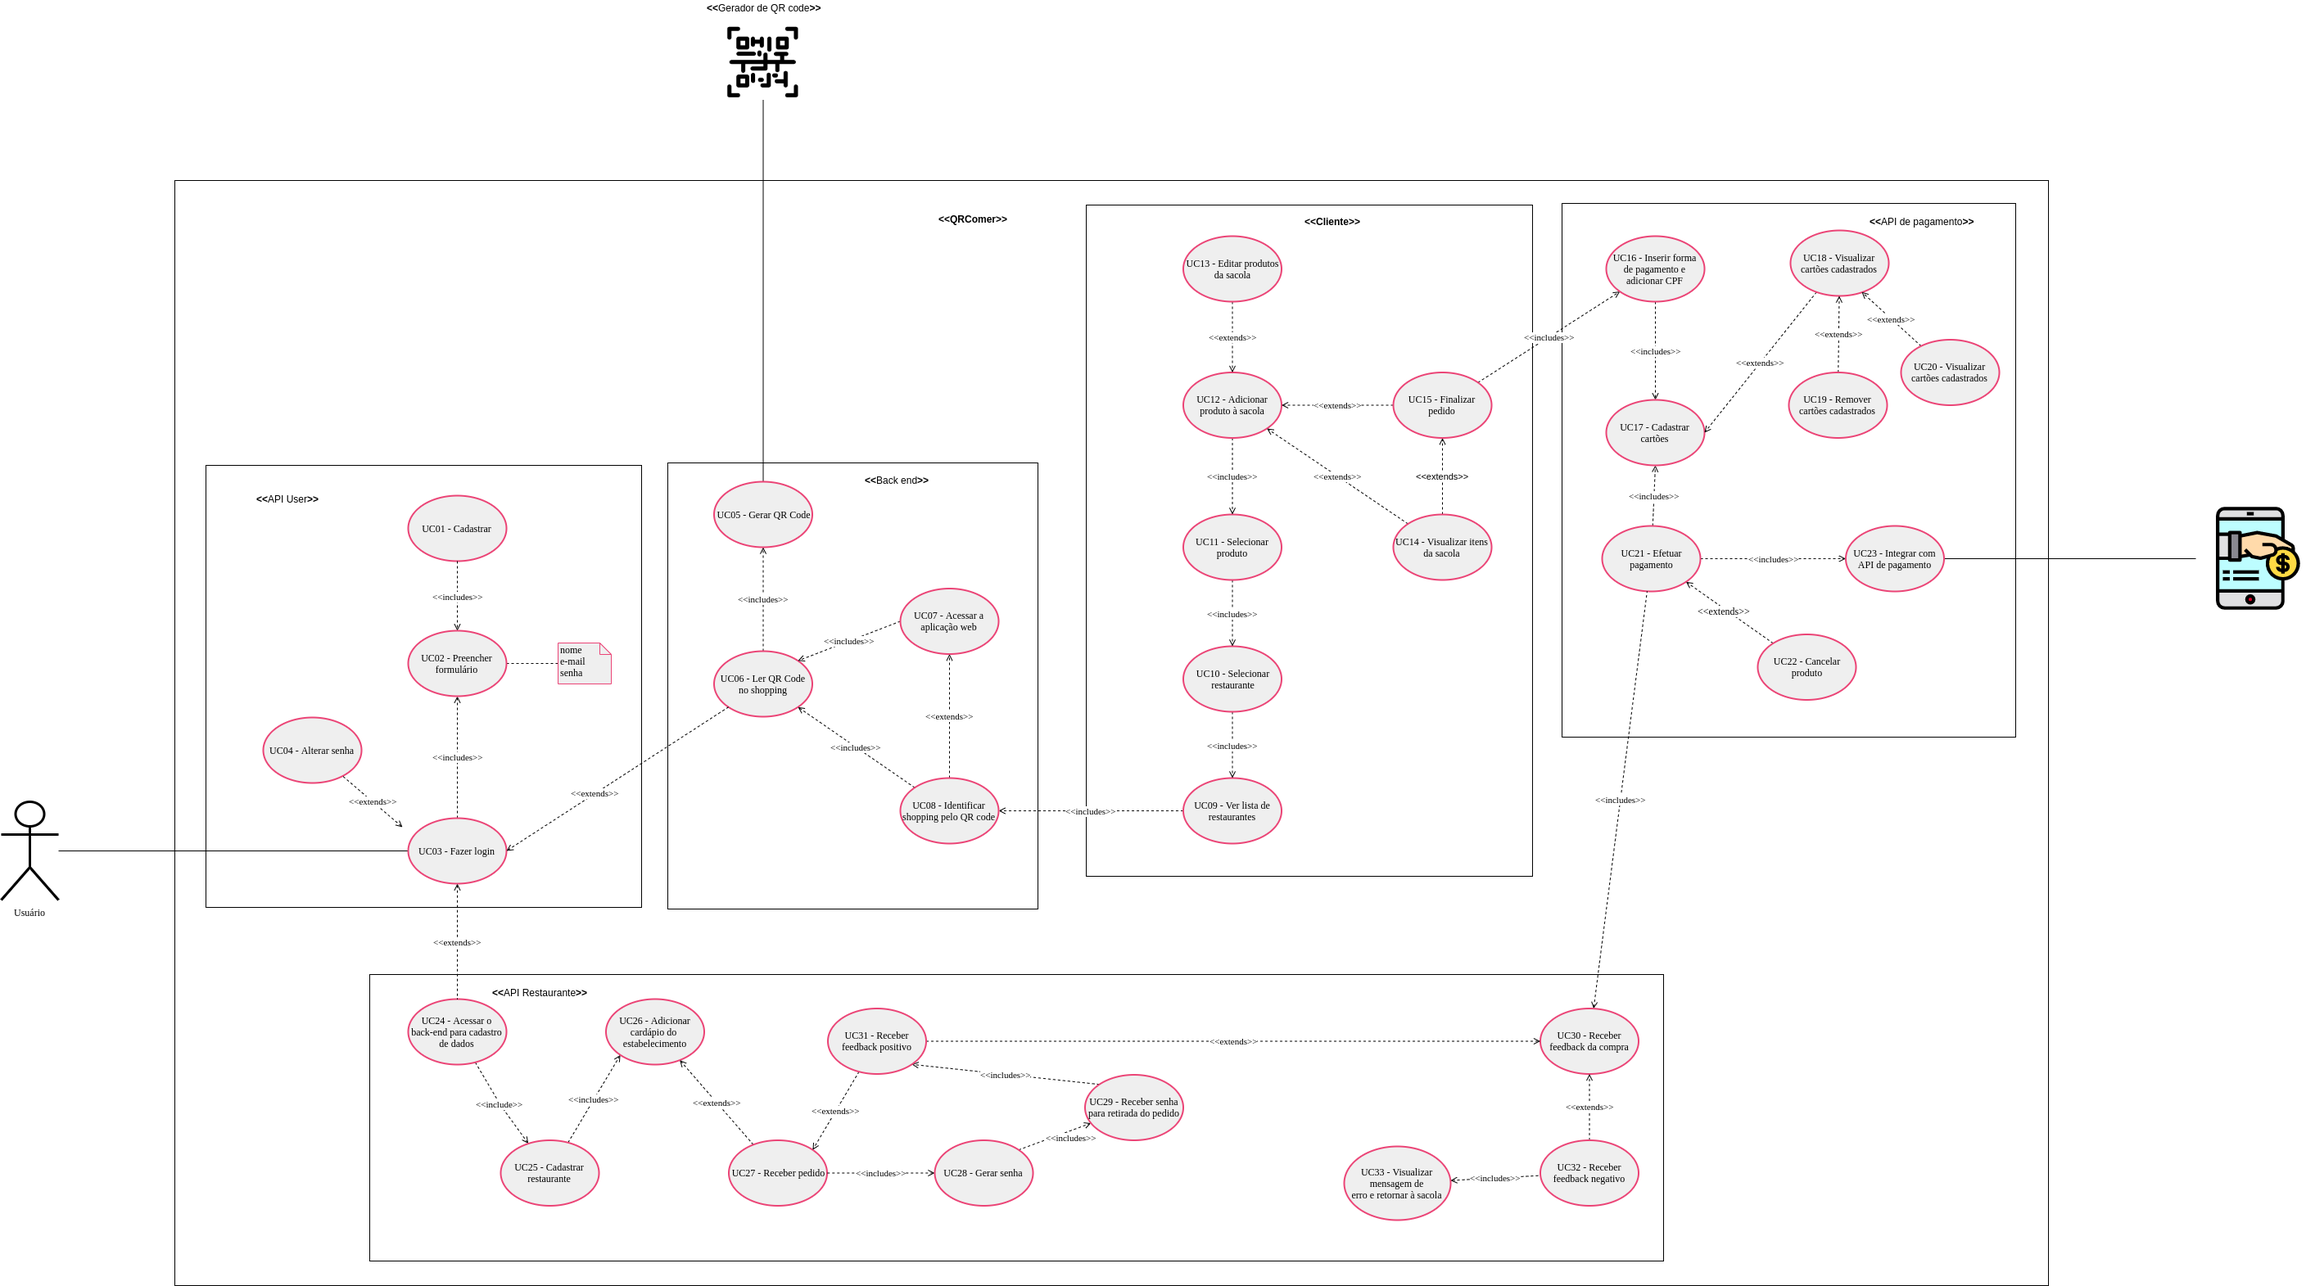
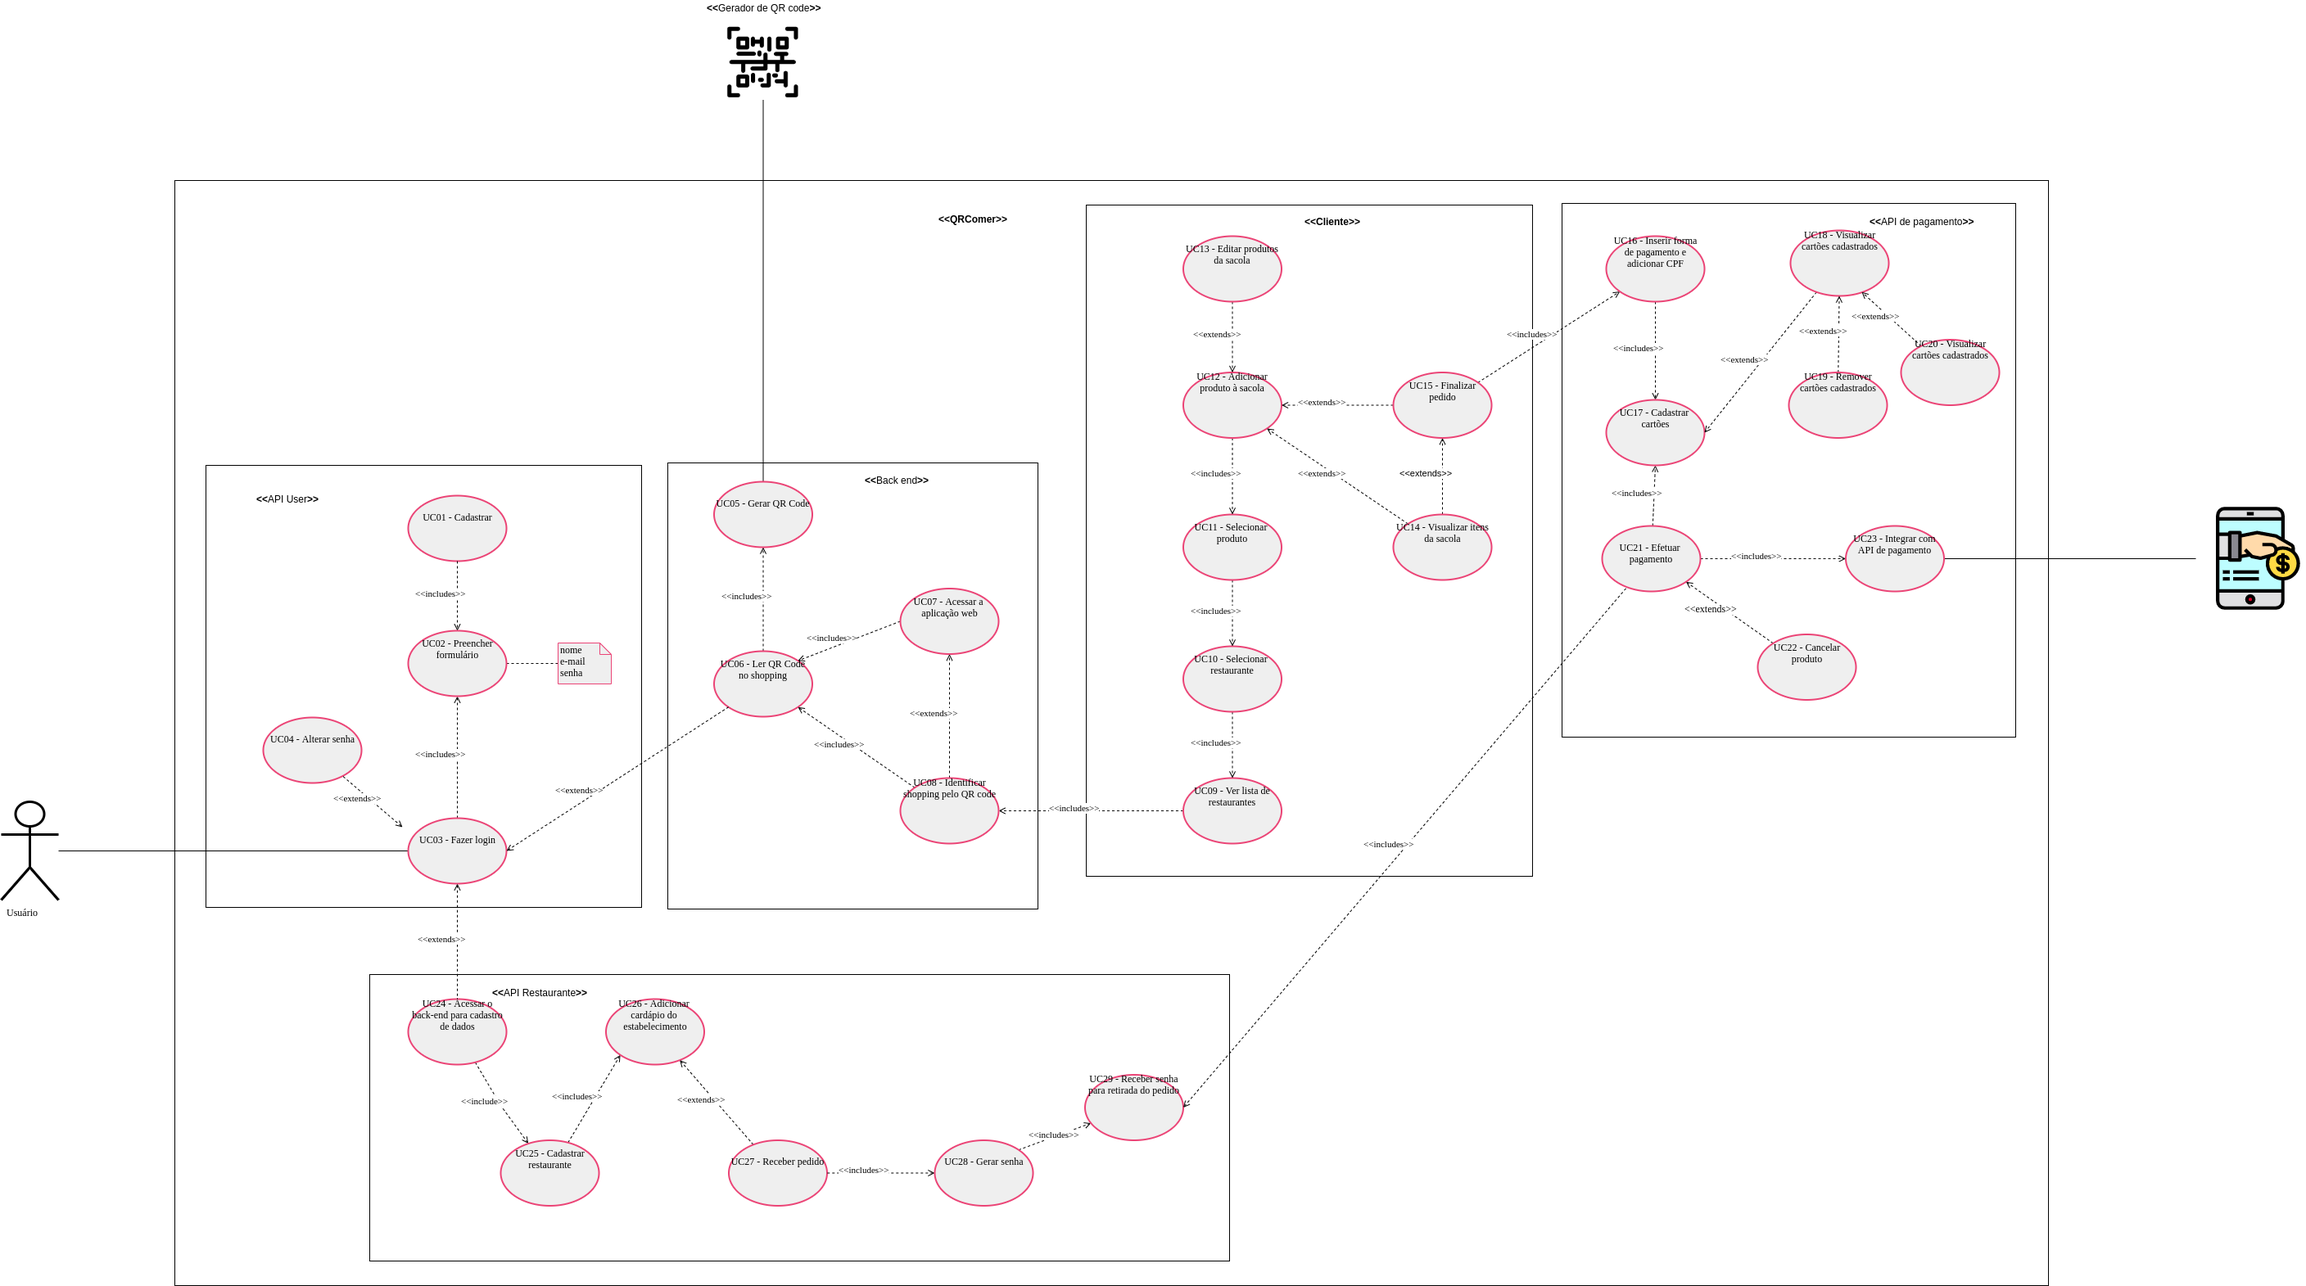
adding more processes to arch doc

diff --git a/docs/seminario5/arquitetura.md b/docs/seminario5/arquitetura.md
@@ -1,9 +1,10 @@
 ## Histórico de Revisão
 
-| Data       | Versão | Descrição                          | Autor                                              |
-| ---------- | ------ | ---------------------------------- | -------------------------------------------------- |
+| Data       | Versão | Descrição                                                       | Autor                                              |
+| ---------- | ------ | --------------------------------------------------------------- | -------------------------------------------------- |
 | 13/11/2019 | 0.1    | Estrutura do Documento, Introdução e Representação Arquitetural | [Pedro Féo](https://github.com/phe0)               |
-| 14/11/2019 | 0.2    | Casos de uso                       | [Matheus Blanco](https://github.com/MatheusBlanco) |
+| 14/11/2019 | 0.2    | Casos de uso, visão de processo e visão de tamanho e desempenho | [Matheus Blanco](https://github.com/MatheusBlanco) |
+| 15/11/2019 | 0.3s   | Refatorando diagramas e adicionando mais visões de processo     | [Matheus Blanco](https://github.com/MatheusBlanco) |
 
 ## 1 Introdução
 
@@ -101,41 +102,37 @@ Provindo da documentação referente ao [seminário 3](/../Wiki/docs/seminario3/
 
 #### 4.1.2 Descrição dos Casos de Uso
 
-| Casos de Uso                                           | Descrição dos Casos de Uso                                                                          |
-| ------------------------------------------------------ | --------------------------------------------------------------------------------------------------- |
-| UC01 - Cadastrar                                       | O usuário realiza o cadastro na aplicação                                                           |
-| UC02 - Preencher Formulário                            | O usuário insere as informações necessárias                                                         |
-| UC03 - Fazer Login                                     | O usuário acessa a aplicação                                                                        |
-| UC04 - Alterar senha                                   | O usuário requisita uma alteração de senha                                                          |
-| UC05 - Gerar QR-Code                                   | O gerador de QR-Code cria um link de acesso para o shopping                                         |
-| UC06 - Ler QR Code no shopping                         | O usuário acessa o shopping a partir do link contido no QR-Code                                     |
-| UC07 - Acessar a aplicação web                         | O gerador de QR-Code acessa a aplicação a partir da identificação do shopping                       |
-| UC08 - Identificar shopping pelo QR-Code               | O gerador de QR-Code gera um código diferente para cada shopping, tornando o link seu identificador |
-| UC09 - Ver lista de restaurantes                       | O usuário vê, na página do shopping, todos os restaurantes existentes no mesmo                      |
-| UC10 - Selecionar restaurante                          | O usuário escolhe e abre um restaurante a partir da lista                                           |
-| UC11 - Selecionar produto                              | O usuário escolhe e seleciona o produto na página de restaurante                                    |
-| UC12 - Adicionar produto à sacola                      | O usuário confirma a seleção do produto e o mesmo é adicionado à sacola de pedidos                  |
-| UC13 - Editar produtos da sacola                       | O usuário regula a quantidade de produtos na sacola                                                 |
-| UC14 - Visualizar itens da sacola                      | O usuário pode ver, na sacola, todos os itens escolhidos                                            |
-| UC15 - Finalizar pedido                                | O usuário confirma os itens na sacola e finaliza o pedido                                           |
-| UC16 - Inserir forma de pagamento e adicionar CPF      | O usuário escolhe o cartão que deseja usar e adiciona o CPF para nota fiscal, na sacola             |
-| UC17 - Cadastrar cartões                               | O usuário cadastra os seus cartões de crédito na conta da aplicação                                 |
-| UC18 - Visualizar cartões cadastrados                  | O usuário pode visualizar todos os cartões cadastrados em sua conta                                 |
-| UC19 - Remover cartões cadastrados                     | O usuário pode remover todos os cartões cadastrados em sua conta                                    |
-| UC20 - Visualizar cartões cadastrados                  | O usuário pode visualizar todos os cartões cadastrados em sua conta                                 |
-| UC21 - Efetuar pagamento                               | O usuário confirma o pedido e o serviço de pagamento debita o valor de seu cartão escolhido         |
-| UC22 - Cancelar produto                                | O usuário deleta um ou todos os itens da sacola                                                     |
-| UC23 - Integrar com API de pagamento                   | O serviço de pagamento simula uma API real de pagamento                                             |
-| UC24 - Acessar o back-end para cadastro de dados       | O restaurante acessa o serviço de cadastro de informações do back-end                               |
-| UC25 - Cadastrar restaurante                           | O restaurante adiciona as informações jurídicas necessárias para cadastrar o restaurante            |
-| UC26 - Adicionar cardápio do estabelecimento           | O restaurante adiciona os itens ao seu cardápio, com valores, descrição e imagens                   |
-| UC27 - Receber pedido                                  | O restaurante recebe o pedido criado pelo usuário, para preparação do alimento                      |
-| UC28 - Gerar senha                                     | O usuário e o restaurante recebem uma senha gerada pela aplicação                                   |
-| UC29 - Receber senha para retirada do pedido           | O usuário e o restaurante recebem uma senha gerada pela aplicação                                   |
-| UC30 - Receber feedback da compra                      | O usuário deixa um feedback do produto para o restaurante                                           |
-| UC31 - Receber feedback positivo                       | O restaurante recebe um feedback positivo                                                           |
-| UC32 - Receber feedback negativo                       | O restaurante recebe um feedback negativo                                                           |
-| UC33 - Visualizar mensagem de erro e retornar à sacola | (?)                                                                                                 |
+| Casos de Uso                                      | Descrição dos Casos de Uso                                                                          |
+| ------------------------------------------------- | --------------------------------------------------------------------------------------------------- |
+| UC01 - Cadastrar                                  | O usuário realiza o cadastro na aplicação                                                           |
+| UC02 - Preencher Formulário                       | O usuário insere as informações necessárias                                                         |
+| UC03 - Fazer Login                                | O usuário acessa a aplicação                                                                        |
+| UC04 - Alterar senha                              | O usuário requisita uma alteração de senha                                                          |
+| UC05 - Gerar QR-Code                              | O gerador de QR-Code cria um link de acesso para o shopping                                         |
+| UC06 - Ler QR Code no shopping                    | O usuário acessa o shopping a partir do link contido no QR-Code                                     |
+| UC07 - Acessar a aplicação web                    | O gerador de QR-Code acessa a aplicação a partir da identificação do shopping                       |
+| UC08 - Identificar shopping pelo QR-Code          | O gerador de QR-Code gera um código diferente para cada shopping, tornando o link seu identificador |
+| UC09 - Ver lista de restaurantes                  | O usuário vê, na página do shopping, todos os restaurantes existentes no mesmo                      |
+| UC10 - Selecionar restaurante                     | O usuário escolhe e abre um restaurante a partir da lista                                           |
+| UC11 - Selecionar produto                         | O usuário escolhe e seleciona o produto na página de restaurante                                    |
+| UC12 - Adicionar produto à sacola                 | O usuário confirma a seleção do produto e o mesmo é adicionado à sacola de pedidos                  |
+| UC13 - Editar produtos da sacola                  | O usuário regula a quantidade de produtos na sacola                                                 |
+| UC14 - Visualizar itens da sacola                 | O usuário pode ver, na sacola, todos os itens escolhidos                                            |
+| UC15 - Finalizar pedido                           | O usuário confirma os itens na sacola e finaliza o pedido                                           |
+| UC16 - Inserir forma de pagamento e adicionar CPF | O usuário escolhe o cartão que deseja usar e adiciona o CPF para nota fiscal, na sacola             |
+| UC17 - Cadastrar cartões                          | O usuário cadastra os seus cartões de crédito na conta da aplicação                                 |
+| UC18 - Visualizar cartões cadastrados             | O usuário pode visualizar todos os cartões cadastrados em sua conta                                 |
+| UC19 - Remover cartões cadastrados                | O usuário pode remover todos os cartões cadastrados em sua conta                                    |
+| UC20 - Visualizar cartões cadastrados             | O usuário pode visualizar todos os cartões cadastrados em sua conta                                 |
+| UC21 - Efetuar pagamento                          | O usuário confirma o pedido e o serviço de pagamento debita o valor de seu cartão escolhido         |
+| UC22 - Cancelar produto                           | O usuário deleta um ou todos os itens da sacola                                                     |
+| UC23 - Integrar com API de pagamento              | O serviço de pagamento simula uma API real de pagamento                                             |
+| UC24 - Acessar o back-end para cadastro de dados  | O restaurante acessa o serviço de cadastro de informações do back-end                               |
+| UC25 - Cadastrar restaurante                      | O restaurante adiciona as informações jurídicas necessárias para cadastrar o restaurante            |
+| UC26 - Adicionar cardápio do estabelecimento      | O restaurante adiciona os itens ao seu cardápio, com valores, descrição e imagens                   |
+| UC27 - Receber pedido                             | O restaurante recebe o pedido criado pelo usuário, para preparação do alimento                      |
+| UC28 - Gerar senha                                | O usuário e o restaurante recebem uma senha gerada pela aplicação                                   |
+| UC29 - Receber senha para retirada do pedido      | O usuário e o restaurante recebem uma senha gerada pela aplicação                                   |
 
 ## 5 Visão Lógica
 
@@ -238,9 +235,43 @@ tentar explicar a estrutura do projeto de uma forma lógica
 - O restaurante então cria um texto em JSON para cadastrar um item de seu menu;
 - O restaurante repete as duas últimas ações para criar a quantidade necessária de categorias e de itens do menu.
 
-<!-- tentar explicar o funcionamento do sistema em forma de processos, como será a interação, que etapas serão feitas pra se realizar atividades
+### 6.6 Processo de checagem de pedidos antigos
 
-diagramas de sequencias e outros q possam dar uma ideia de processo -->
+![sequencia_checar_pedidos_antigos](../images/diagramas-uml/diagrama_sequencia_pedidos_antigos-2.png)
+
+| **DS01**      | **Diagrama de sequência de checagem de pedidos antigos**                                                |
+| ------------- | ------------------------------------------------------------------------------------------------------- |
+| **Versão**    | Atual: 2.0 (17/09) <br> Anterior: [1.0](../images/diagramas-uml/diagrama_sequencia_pedidos_antigos.png) |
+| **Descrição** | Diagrama UML da sequência do microsserviço de checagem de pedidos antigos                               |
+| **Autor**     | [Pedro Feo](https://github.com/Phe0), [Matheus Blanco](https://github.com/MatheusBlanco)                |
+
+- O usuário acessa a plataforma;
+- O usuário abre a página de login;
+- O usuário realiza o login e é redirecionado à página principal;
+- O usuário acessa a página de histórico de pedidos;
+- O front-end realiza uma requisição ao serviço de pedidos;
+- O serviço de pedidos busca no banco de dados os pedidos anteriormente realizados;
+- Os pedidos são enviados e renderizados no front-end;
+- O front-end mostra para o usuário os pedidos anteriormente realizados.
+
+### 6.7 Processo de checagem de pedidos ativos
+
+![sequencia_checar_pedidos_ativos](../images/diagramas-uml/diagrama_sequencia_pedidos_ativos-3.png)
+
+| **DS01**      | **Diagrama de sequência de checagem de pedidos ativos**                                                  |
+| ------------- | -------------------------------------------------------------------------------------------------------- |
+| **Versão**    | Atual: 3.0 (15/11) <br> Anterior: [2.0](../images/diagramas-uml/diagrama_sequencia_pedidos_ativos-2.png) |
+| **Descrição** | Diagrama UML da sequência do microsserviço de checagem de pedidos ativos                                 |
+| **Autor**     | [Pedro Feo](https://github.com/Phe0), [Matheus Blanco](https://github.com/MatheusBlanco)                 |
+
+- O usuário acessa a plataforma;
+- O usuário abre a página de login;
+- O usuário realiza o login e é redirecionado à página principal;
+- O usuário acessa a página de histórico de pedidos;
+- O front-end realiza uma requisição ao serviço de pedidos;
+- O serviço de pedidos busca no banco de dados os pedidos que estão ativos;
+- Os pedidos são enviados e renderizados no front-end;
+- O front-end mostra para o usuário os pedidos ativos.
 
 ## 7 Visão da Implantação
 
@@ -267,6 +298,7 @@ Mostrar formas de medir qualidade do código e do produto, cobertura de testes p
 O WebApp QRComer possui um tamanho médio de 200MB. O mesmo foi desenvolvido para funcionar em navegadores tanto em formato desktop quanto formato mobile, com foco maior em mobile. Pelo fato de ser um site acessível a partir de navegadores, não existe a necessidade de instalação de nenhum serviço, sejam eles o front-end ou as APIs dos microsserviços.
 
 Sendo assim, o mesmo não ocupa espaço físico nos aparelhos dos usuários, restringindo-se apenas a memória temporária e CACHE. O sistema funciona a partir de requisições feitas entre as APIS e o front-end, todas realizadas pela internet. Sendo assim, espera-se que o tamanho físico do projeto não seja um diferencial significativo nos aparelhos de seus consumidores, nem que o desempenho seja comprometido por questões parecidas.
+
 <!-- Mostrar volume de dados do sistema, tamanho do projeto, explicar e determinar normas de desempenho -->
 
 ## 12 Modelos/Padrões Arquiteturais
